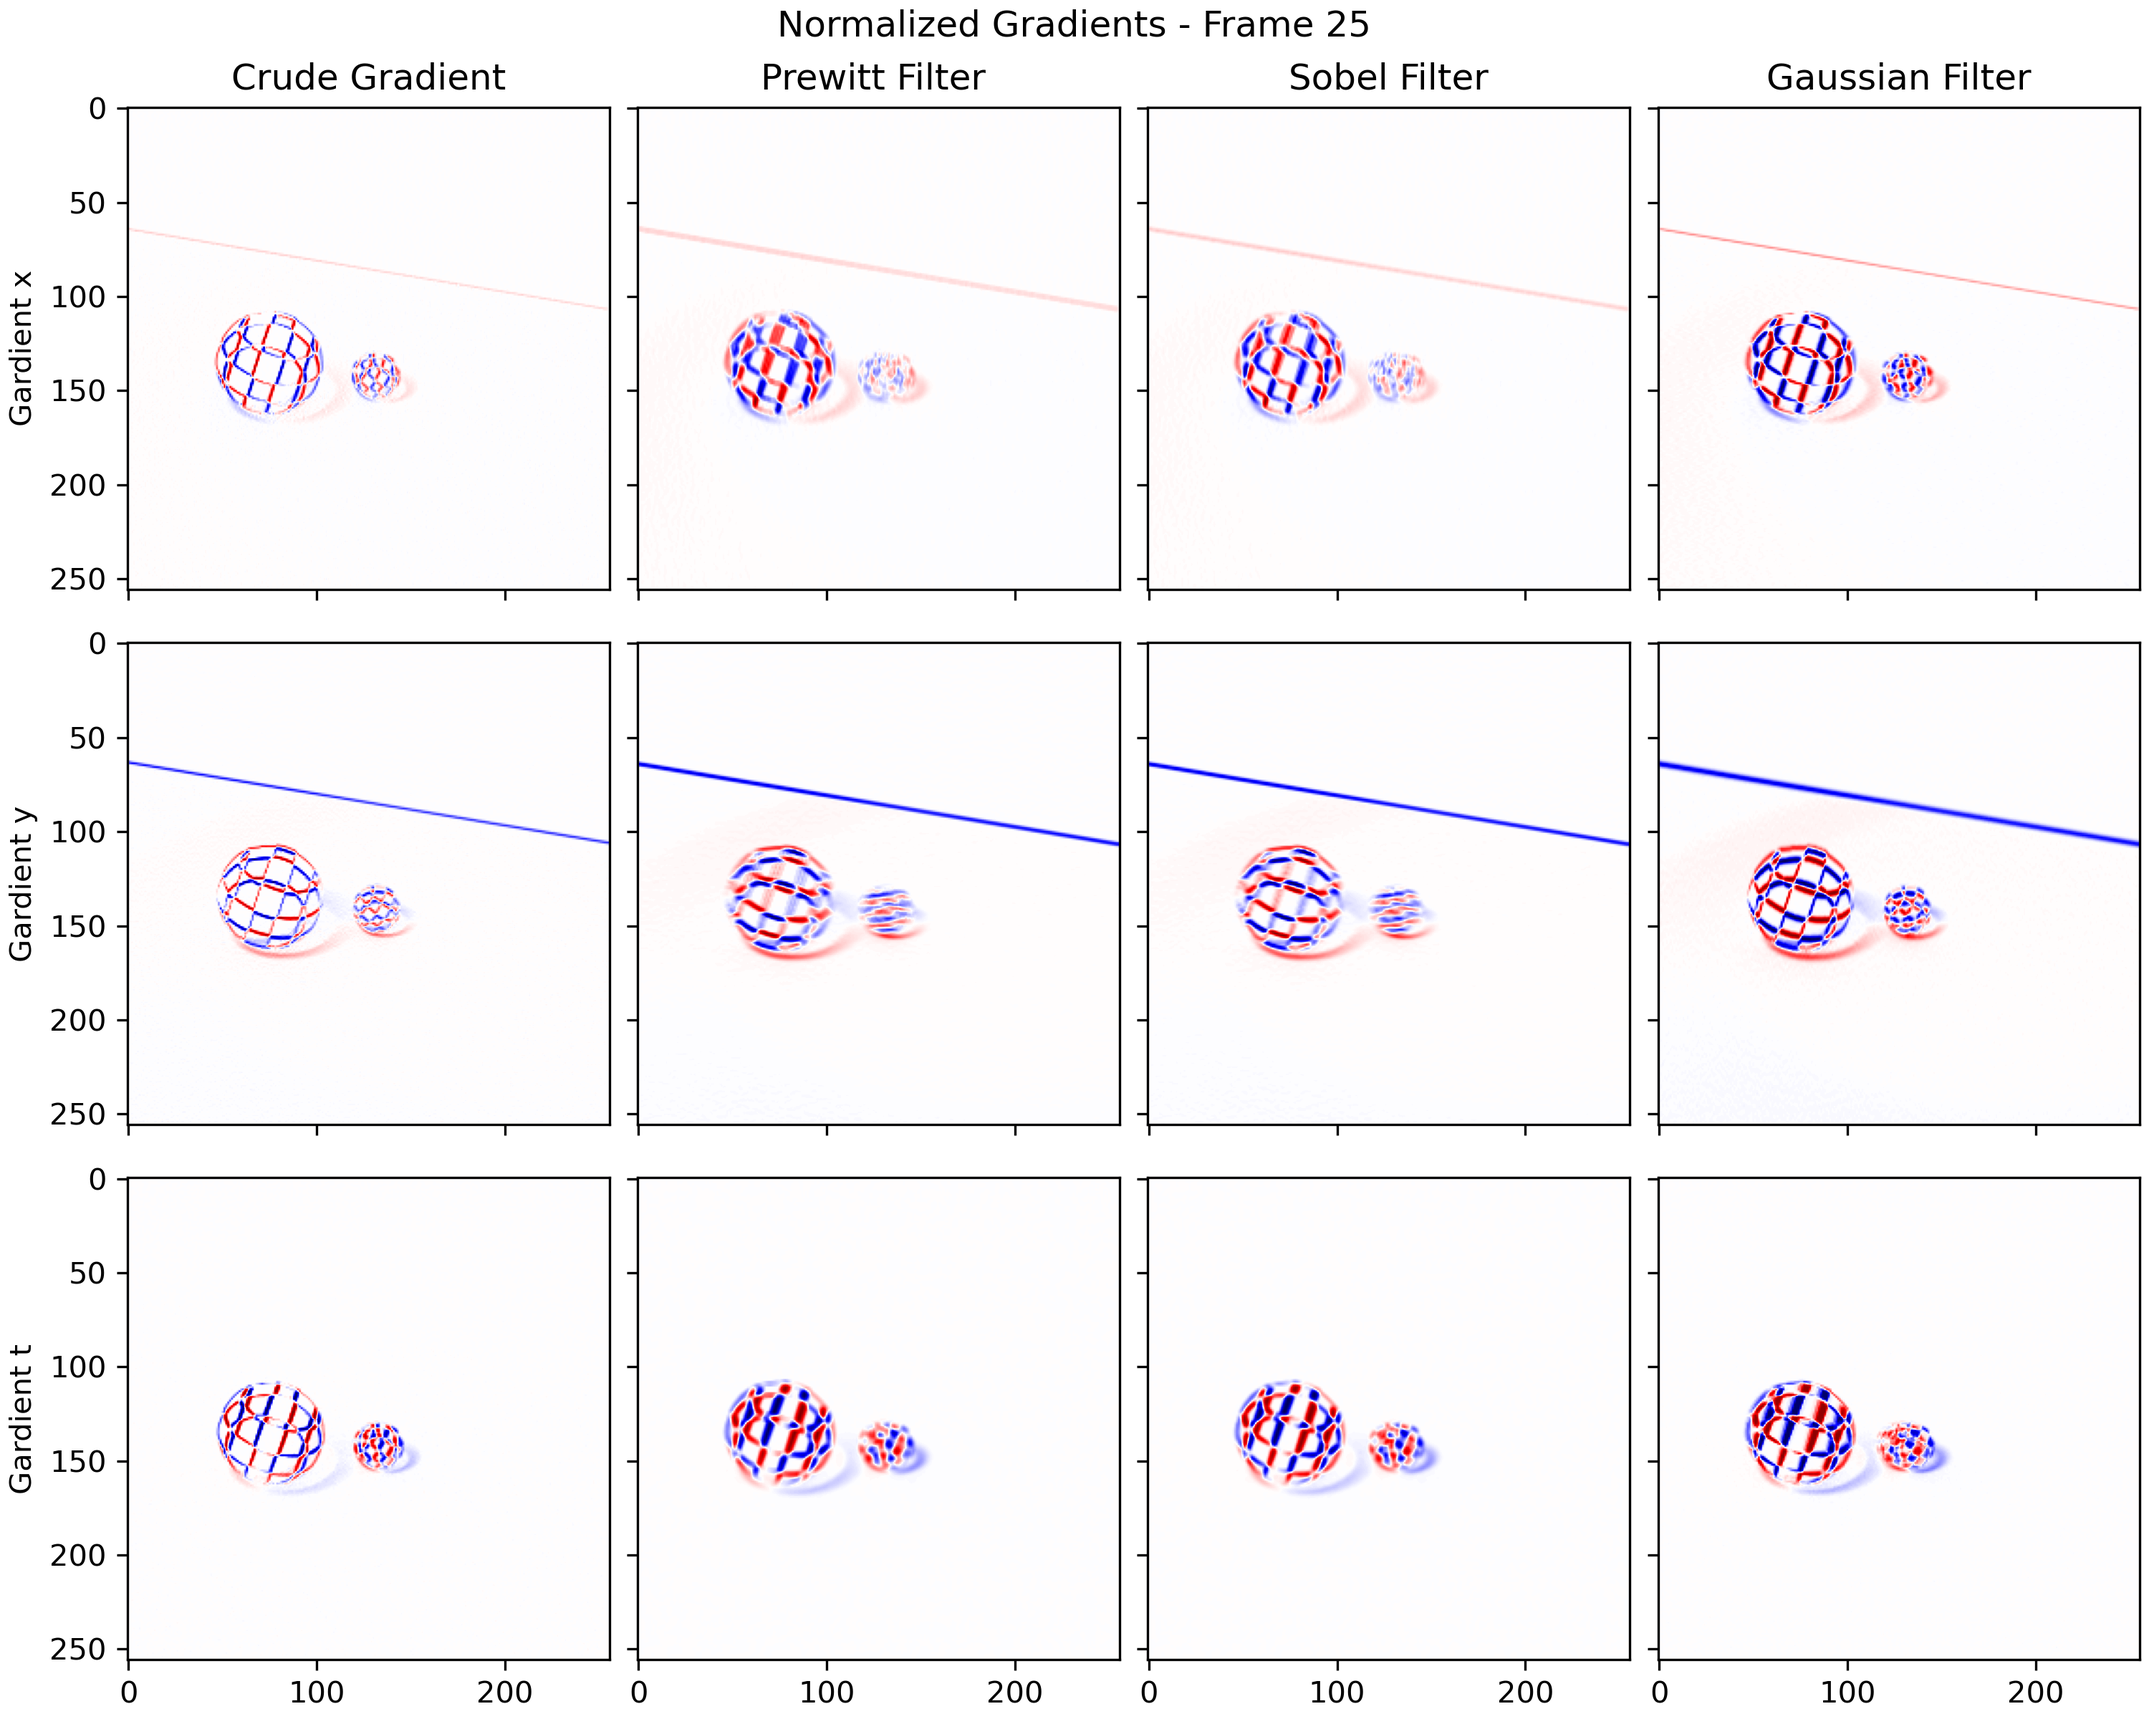
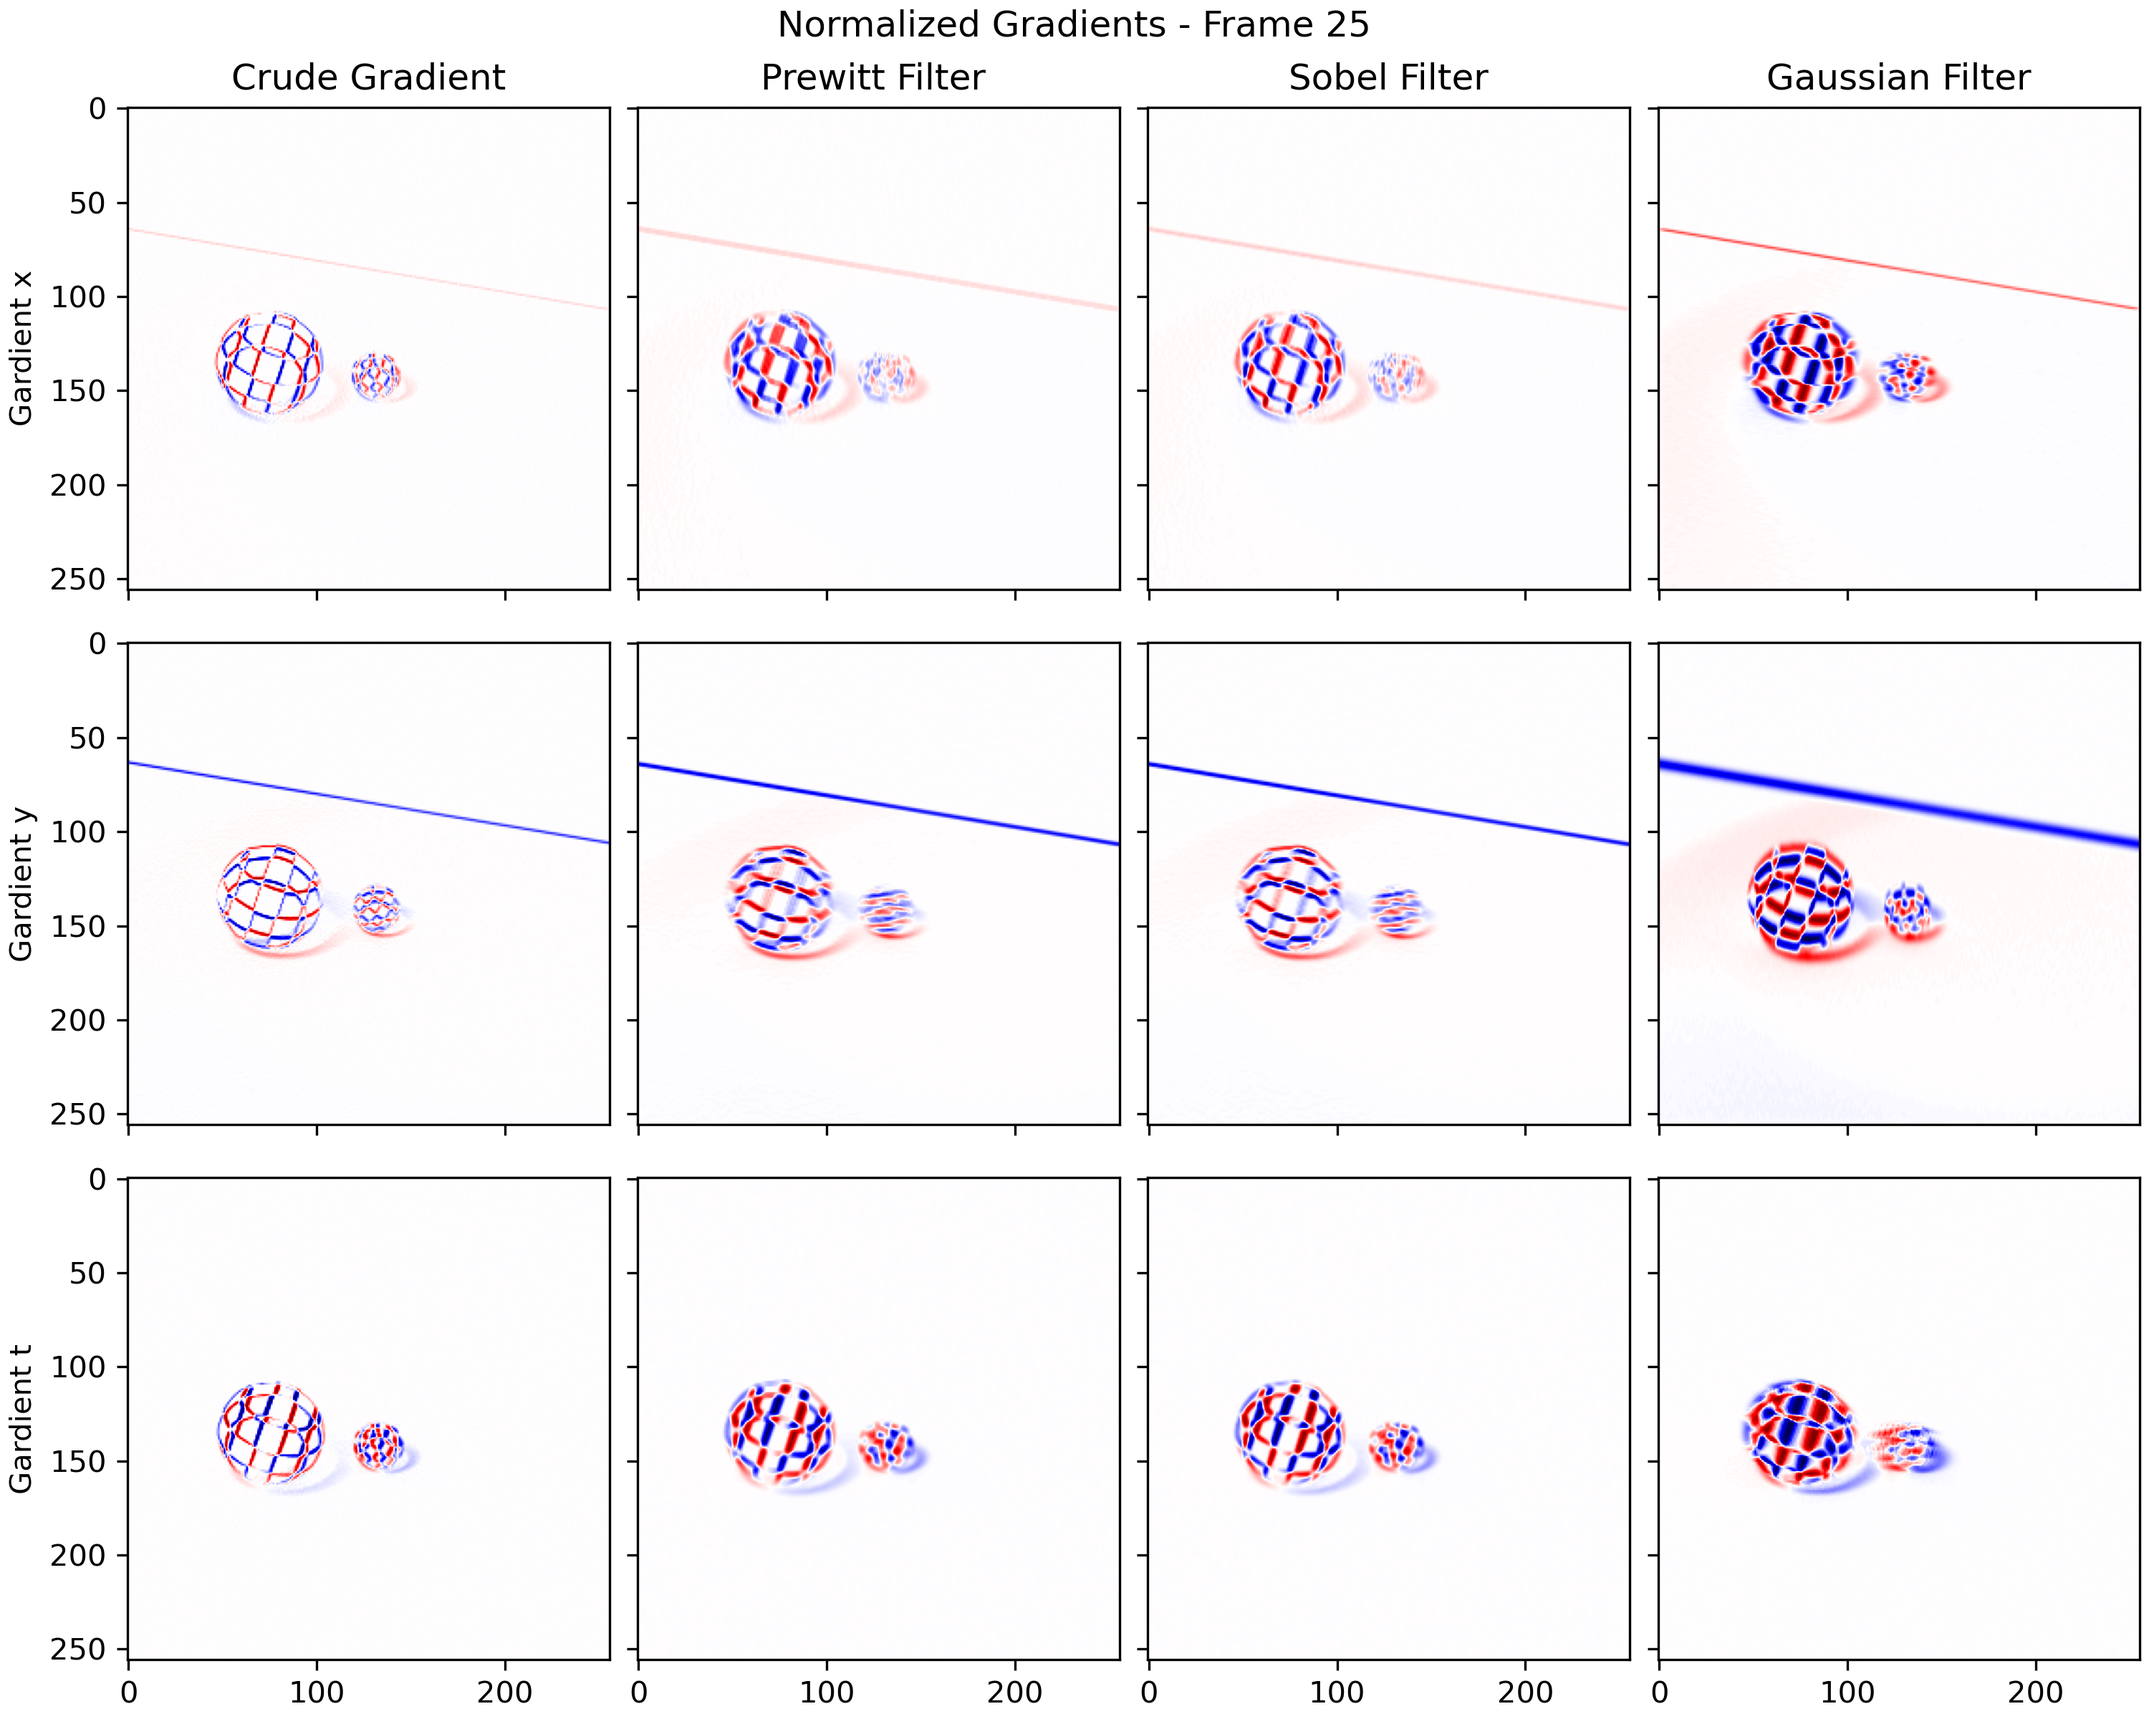
Testing a bit

diff --git a/Optical_flow/optical_flow.py b/Optical_flow/optical_flow.py
@@ -107,7 +107,7 @@ Problem 2.3: Gaussian Gradient Filters
 """
 # Using the Gaussian Kernel
 
-sigma = 1
+sigma = 2
 
 Vy_gauss = ndimage.gaussian_filter1d(im_3d, sigma=sigma, order = 1, axis=0)
 Vx_gauss = ndimage.gaussian_filter1d(im_3d, sigma=sigma, order = 1, axis=1)
@@ -209,9 +209,9 @@ Problem 3.2
 
 
 ########### GIF in 3.2
-N = 7 # N has to be uneven because of the r definition below
+N = 9 # N has to be uneven because of the r definition below
 r = int((N-1)/2)
-tmax = 5
+tmax = 64
 pos = np.mgrid[r:256-r, r:256-r, 0:tmax]
 x_list = pos[0].flatten()
 y_list = pos[1].flatten()
@@ -220,6 +220,7 @@ t_list = pos[2].flatten()
 vector_field = np.zeros((2, 256-2*r, 256-2*r, tmax))
 start = time.time()
 for i in range(np.size(x_list)):
+    if i%5e5 == 0: print(f"Iteration {i*1e-6} million")
     x0=x_list[i]; y0=y_list[i]; t0 = t_list[i]
 
     Vy_p = Vy_prewitt[y0-r:y0+r+1, x0-r:x0+r+1, t0].flatten()
@@ -230,9 +231,11 @@ for i in range(np.size(x_list)):
     sol = np.linalg.lstsq(A.T, -Vt_p, rcond = None)
     vector_field[0, x0-r, y0-r, t0] = sol[0][0]
     vector_field[1, x0-r, y0-r, t0] = sol[0][1]
-print(f"There passed {np.round((time.time()-start), 3)} seconds")
+print(f"There passed {time.strftime('%M minutes and %S seconds', time.gmtime(time.time()-start))}")
 
-print(np.shape(pos))
+
+
+#print(np.shape(pos))
 
 plt.close()
 plt.show()
@@ -246,5 +249,5 @@ for i in range(tmax):
     ax.imshow(im_3d[:,:,i], cmap = 'gray') 
     opt_flow = ax.quiver(pos[0,::10,::10, i], pos[1,::10,::10, i], vector_field[0,::10,::10, i], vector_field[1,::10,::10, i])
     plt.pause(1/2)
+    plt.savefig(f'Optical_flow/toyOpticalFlow/image_flow_{i}.png', dpi = 300)
     plt.cla()
-plt.savefig('ex3_2.gif')
